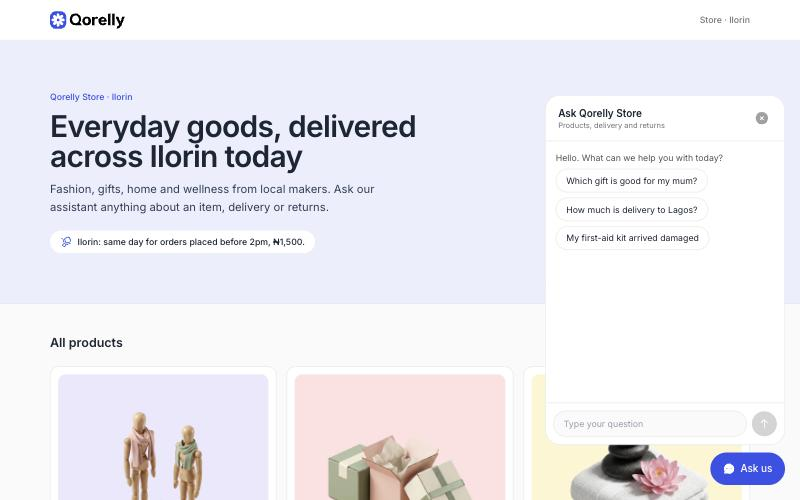
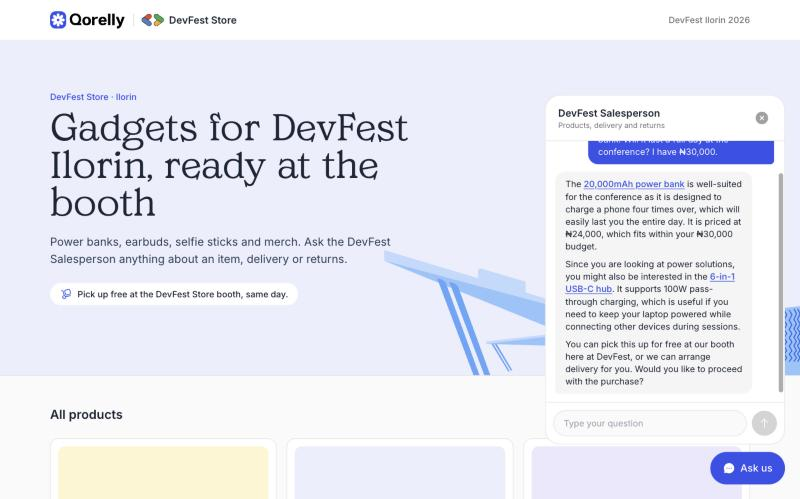
docs: DevFest Store README, Storage rules step and a real chat screenshot
The README now describes DevFest Store and the DevFest Salesperson, tells
you to publish firebase/storage.rules (AI Logic checks them before reading
catalogue.txt), pastes the template's frontmatter and prompt separately, tests
with Agent Platform and the sample input, and covers npm run catalogue:upload.
The troubleshooting table gains the 403 "The caller does not have
permission" row.

The screenshot shows a real reply from the devfest-ai-logic project:
grounded in catalogue.txt, with the price, the budget check, booth pick-up
and one linked add-on.

diff --git a/README.md b/README.md
@@ -1,14 +1,15 @@
-# Qorelly Store AI: a Firebase AI Logic codelab
+# DevFest Store: a Firebase AI Logic codelab
 
 **Build an AI-powered customer support agent using Firebase AI Logic.** This is the
 companion repo for the DevFest Ilorin 2026 workshop.
 
-Qorelly Store is a small demo shop in Ilorin. Its "Ask us" assistant answers
-questions about products, delivery and returns. It runs on a **server prompt
+DevFest Store is a pop-up gadget shop at DevFest Ilorin, powered by Qorelly. The
+**DevFest Salesperson** answers questions about products, booth pick-up, delivery
+and returns. It runs on a **server prompt
 template**, so the instructions and the confidential goodwill budget never reach
 the browser.
 
-![Qorelly Store with the support chat open](docs/screenshots/store.jpg)
+![DevFest Store with the DevFest Salesperson chat open](docs/screenshots/store.jpg)
 
 > Nothing here is for sale. The products, prices and policies are sample data in
 > `src/data/catalogue.json`.
@@ -29,7 +30,7 @@ Browser ──App Check──▶ Firebase AI Logic ──▶ Gemini on Agent Pla
 |---|---|
 | The one file the codelab edits | [`src/lib/firebase.ts`](src/lib/firebase.ts) |
 | Config (never committed) | `.env.local`, from [`.env.example`](.env.example) |
-| Prompt template, input schema, catalogue | [`firebase/`](firebase) |
+| Prompt template (with input schema), test input, catalogue, Storage rules | [`firebase/`](firebase) |
 | Store data | [`src/data/catalogue.json`](src/data/catalogue.json) |
 
 ---
@@ -62,20 +63,25 @@ replies with what to set up.
 
 ## Firebase setup checklist
 
-1. Create a Firebase project (for example `qorelly-store-ai`) and upgrade it to
+1. Create a Firebase project (for example `devfest-store-ai`) and upgrade it to
    **Blaze**.
 2. Register a web app and copy its config into `.env.local`.
 3. **AI Logic → Get started → Agent Platform Gemini API.** Don't choose the Gemini
    Developer API, because it can't read files from Cloud Storage.
-4. **Storage → Get started.** Use production mode and keep the rules as they are.
-   Upload [`firebase/catalogue.txt`](firebase/catalogue.txt).
+4. **Storage → Get started.** Use production mode. On the **Rules** tab, paste
+   [`firebase/storage.rules`](firebase/storage.rules) and publish. AI Logic checks
+   these rules before it reads a file, so without them the chat gets a 403. Then upload
+   [`firebase/catalogue.txt`](firebase/catalogue.txt), or run `npm run catalogue:upload`
+   (needs `gcloud auth login`).
 5. In Cloud console, open your bucket, go to **Permissions → Grant access**, and grant
    `service-<PROJECT_NUMBER>@gcp-sa-firebasevertexai.iam.gserviceaccount.com`
    the **Storage Object Viewer** role.
-6. **AI Logic → Prompt templates → Create.** Use the ID `product-agent` and the model
-   `gemini-3.1-flash-lite`. Paste in [`product-agent.prompt`](firebase/product-agent.prompt)
-   (replace `YOUR_PROJECT_ID`) and [`product-agent.schema.json`](firebase/product-agent.schema.json).
-   Test it, then save.
+6. **AI Logic → Prompt templates → Create.** Use the ID `product-agent`. From
+   [`product-agent.prompt`](firebase/product-agent.prompt), paste the part between
+   the `---` lines into **Configuration** (the model and input schema), and the rest
+   into **Prompt**. Replace `YOUR_PROJECT_ID`. To test it, choose **Agent Platform**
+   as the provider and use [`product-agent.test-input.json`](firebase/product-agent.test-input.json)
+   as the test input. Then save.
 7. **App Check:**
    - Create a reCAPTCHA key in Cloud console (Security → Fraud Defense).
    - Register the key under App Check → Apps.
@@ -95,6 +101,7 @@ replies with what to set up.
 | 400 "Referencing Google Cloud Storage files directly is not supported" | Using the Gemini Developer API (`GoogleAIBackend`) | Use `AgentPlatformBackend` |
 | 404 "Publisher model … was not found" | Model not served in the chosen location | Leave `AgentPlatformBackend()` on its default, `global` |
 | 403 `storage.objects.get` | The AI Logic service agent can't read the bucket | Checklist step 5. Allow 1–2 minutes for the grant to take effect |
+| 403 "The caller does not have permission" | Storage rules don't allow reading `catalogue.txt` | Publish [`firebase/storage.rules`](firebase/storage.rules) (checklist step 4) |
 
 ---
 
@@ -103,11 +110,12 @@ replies with what to set up.
 Edit `src/data/catalogue.json`, then:
 
 ```bash
-npm run catalogue   # rewrites firebase/catalogue.txt
+npm run catalogue          # rewrites firebase/catalogue.txt
+npm run catalogue:upload   # rewrites it and uploads it to your bucket (gcloud)
 ```
 
-Upload the new `catalogue.txt` to Storage, replacing the old one, so the
-assistant knows what the store shows.
+The assistant reads the uploaded `catalogue.txt`, so upload it again after every
+change, or it will describe products the store no longer shows.
 
 ---
 
